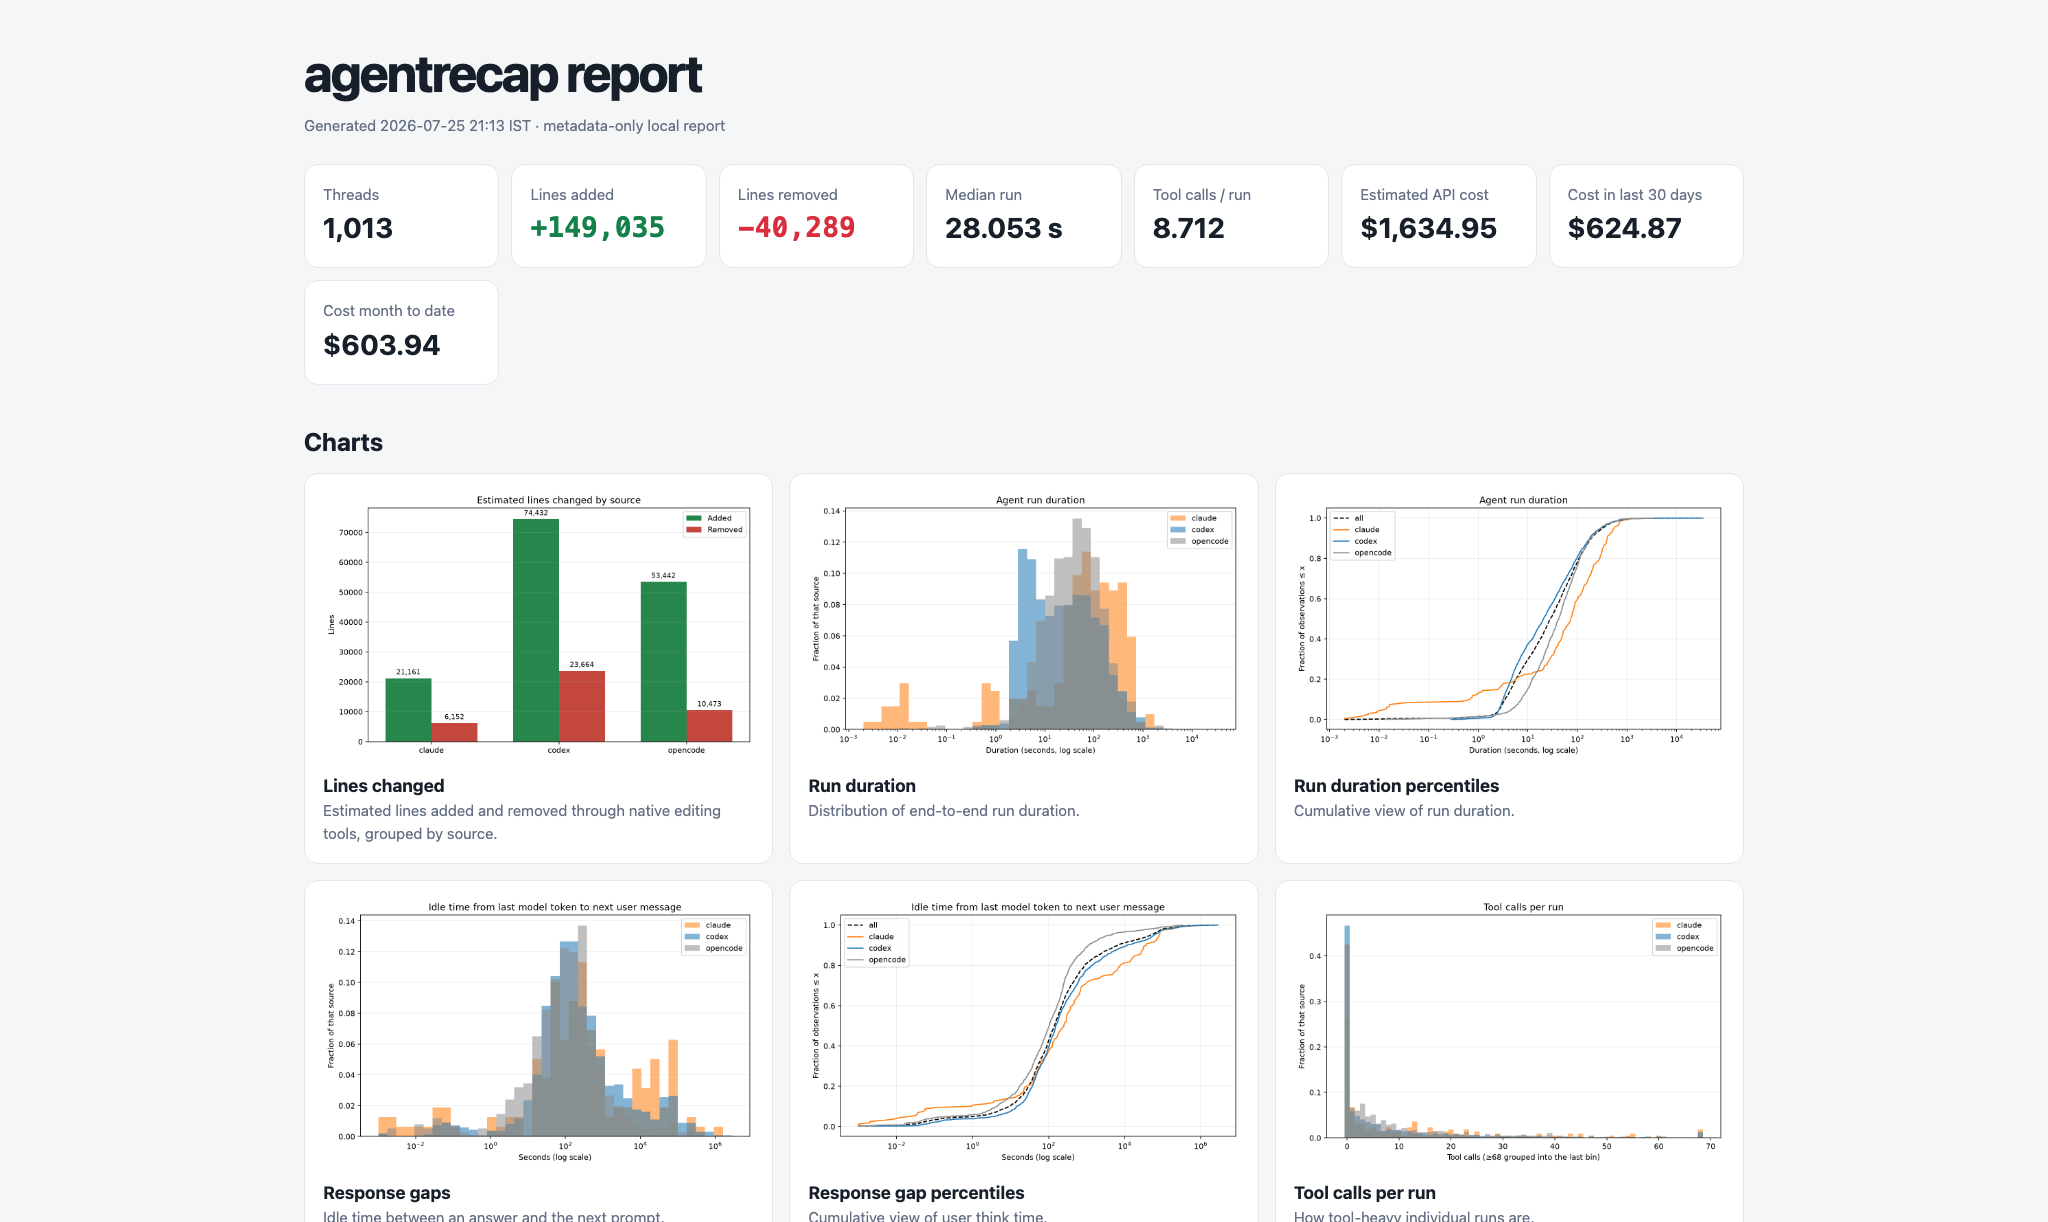
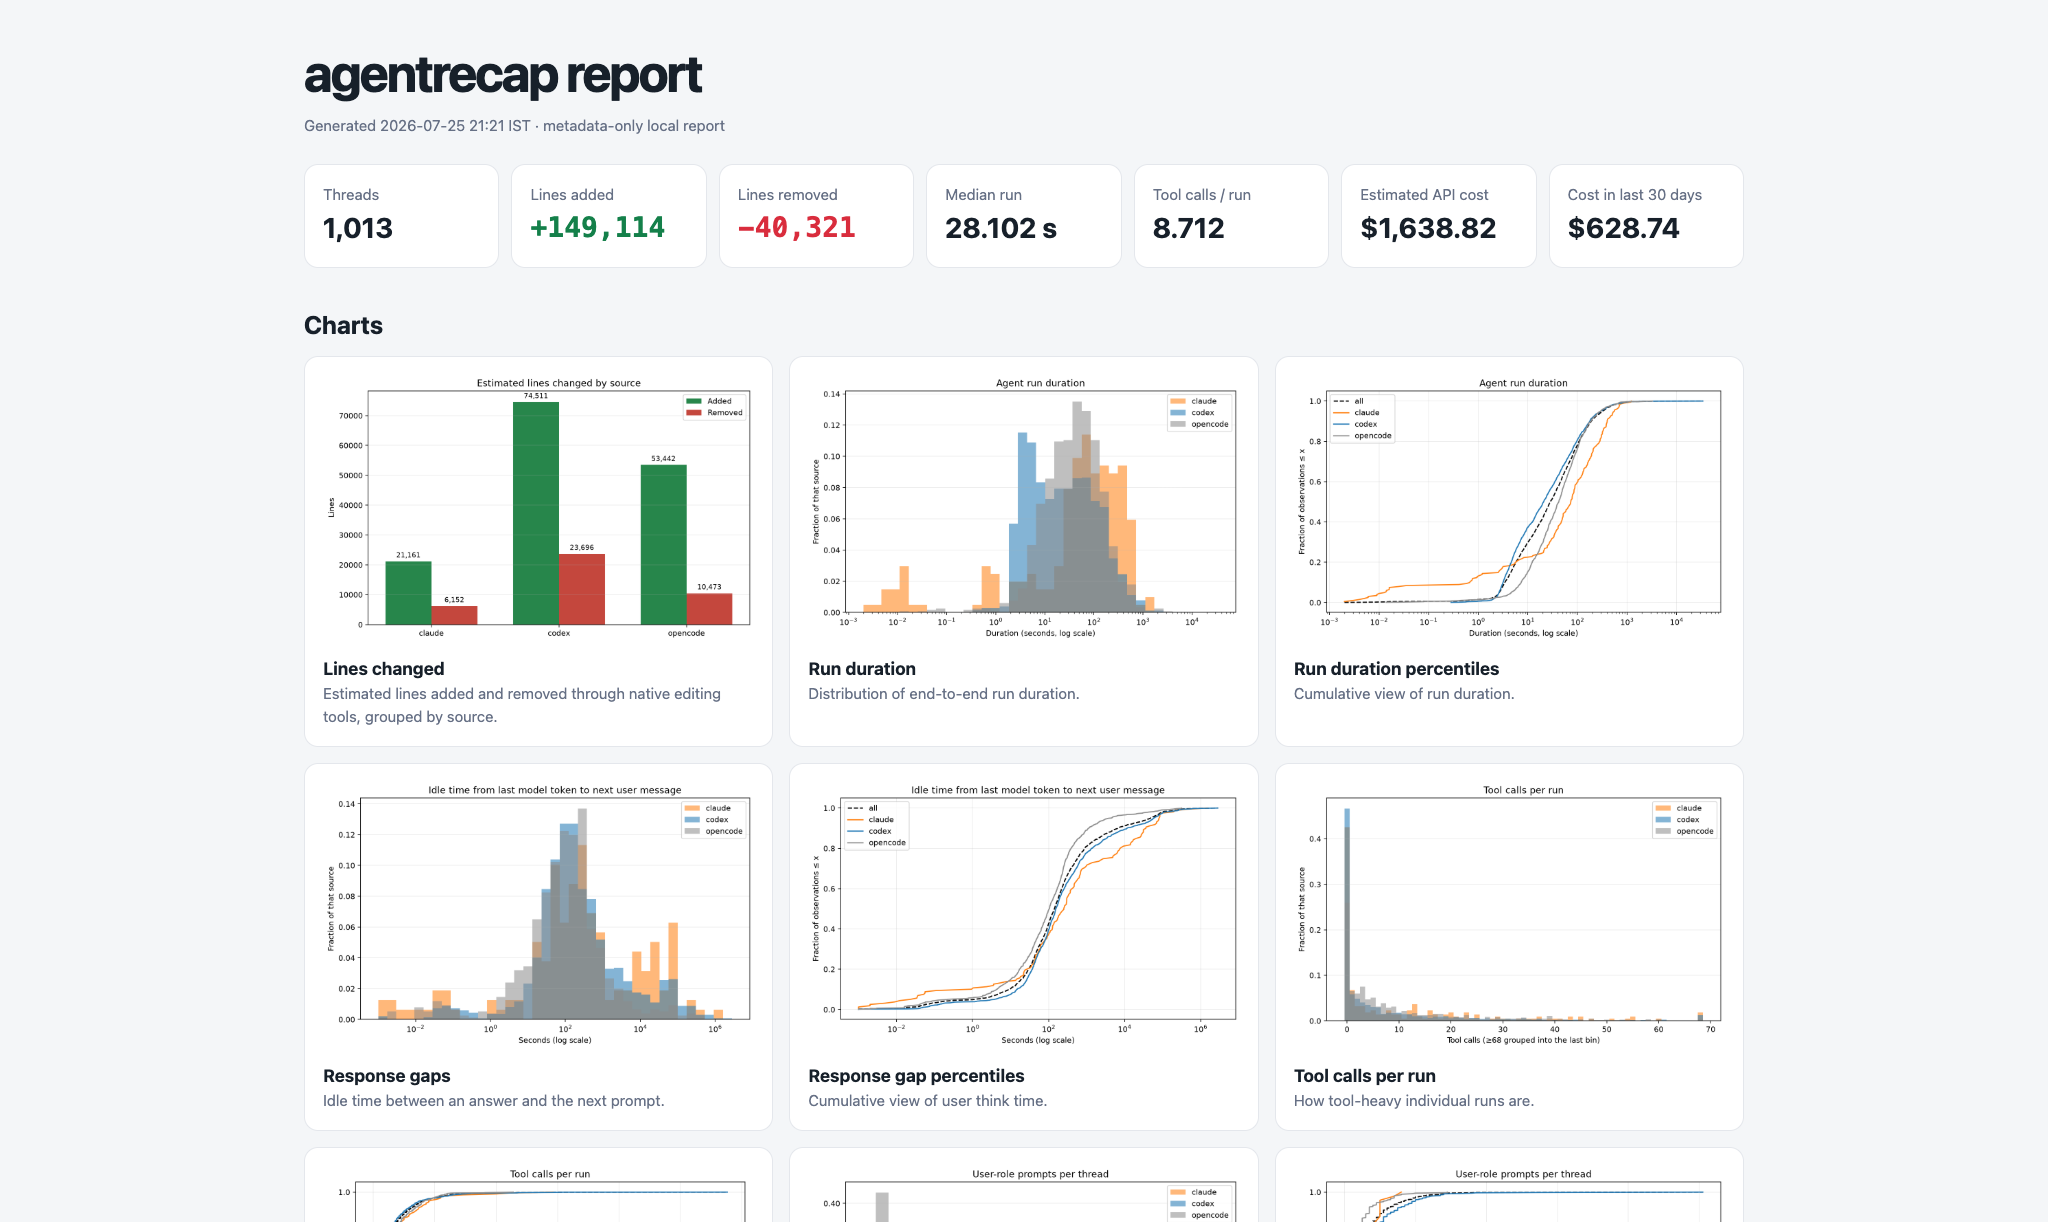
remove cost month to date

diff --git a/src/agentrecap/report.py b/src/agentrecap/report.py
@@ -394,10 +394,6 @@ def build_report(output_dir: Path, title: str) -> Path:
     last_30_days_cost = matched_calls.loc[
         local_timestamps.ge(now - pd.Timedelta(days=30)), "estimated_cost_usd"
     ].sum()
-    month_start = now.normalize().replace(day=1)
-    month_to_date_cost = matched_calls.loc[
-        local_timestamps.ge(month_start), "estimated_cost_usd"
-    ].sum()
     monthly_costs, cost_sources = _build_monthly_costs(matched_calls, local_timestamps, data_dir)
     monthly_costs = _add_monthly_loc(
         monthly_costs,
@@ -414,7 +410,6 @@ def build_report(output_dir: Path, title: str) -> Path:
         ("Tool calls / run", format_value(all_summary.get("avg_tool_calls_per_run"))),
         ("Estimated API cost", f"${estimated_cost:,.2f}" if not matched_calls.empty else "—"),
         ("Cost in last 30 days", f"${last_30_days_cost:,.2f}" if not matched_calls.empty else "—"),
-        ("Cost month to date", f"${month_to_date_cost:,.2f}" if not matched_calls.empty else "—"),
     ]
     cards = [{"label": label, "value": format_value(value)} for label, value in cards]
     cards[1:1] = [

diff --git a/README.md b/README.md
@@ -48,7 +48,7 @@ Use `--since` and `--until` to limit the analysis by local calendar date. Both d
 
 The report includes:
 
-- Headline recent, month-to-date, and all-time estimated API costs alongside usage metrics.
+- Headline recent and all-time estimated API costs alongside usage metrics.
 - Codex, Claude, and OpenCode comparisons.
 - Model usage, cache ratios, reasoning-token metrics, and monthly estimated API costs.
 - Run-duration, response-gap, thread-length, token, cache, and tool-call charts.
